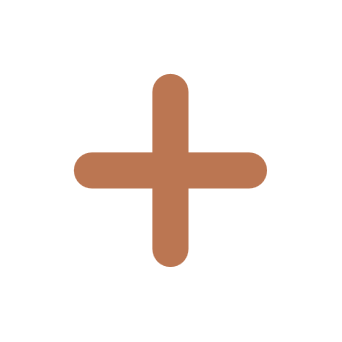
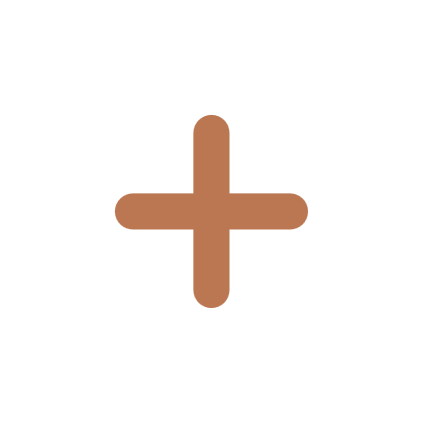
增加关卡，更改目标png大小

Changed region(s): [[0.2047, 0.2047, 0.7895, 0.7895]]

diff --git a/src/common/js/level.js b/src/common/js/level.js
@@ -1,0 +1,54 @@
+export function level() {
+    // 0 默认黑色背景
+    // 1 墙
+    // 2 地板
+    // 3 箱子
+    // 4 终点
+    // 5 人
+    return {
+        level1: [
+            [0, 0, 0, 1, 1, 1, 0, 0, 0, 0],
+            [0, 0, 0, 1, 4, 1, 0, 0, 0, 0],
+            [0, 0, 0, 1, 2, 1, 1, 1, 1, 0],
+            [0, 1, 1, 1, 3, 2, 3, 4, 1, 0],
+            [0, 1, 4, 2, 3, 5, 1, 1, 1, 0],
+            [0, 1, 1, 1, 1, 3, 1, 0, 0, 0],
+            [0, 0, 0, 0, 1, 4, 1, 0, 0, 0],
+            [0, 0, 0, 0, 1, 1, 1, 0, 0, 0],
+            [0, 0, 0, 0, 0, 0, 0, 0, 0, 0]
+        ],
+        level2: [
+            [1, 1, 1, 1, 1, 1, 1, 0, 0, 0],
+            [1, 2, 2, 2, 1, 0, 0, 0, 0, 0],
+            [1, 2, 3, 2, 1, 0, 1, 1, 1, 0],
+            [1, 2, 3, 5, 1, 0, 1, 4, 1, 0],
+            [1, 1, 1, 3, 1, 1, 1, 4, 1, 0],
+            [0, 1, 1, 2, 2, 2, 2, 4, 1, 0],
+            [0, 1, 2, 2, 2, 1, 2, 2, 1, 0],
+            [0, 1, 2, 2, 2, 1, 1, 1, 1, 0],
+            [0, 1, 1, 1, 1, 1, 0, 0, 0, 0]
+        ],
+        level3: [
+            [0, 1, 1, 1, 1, 1, 1, 1, 1, 1, 0],
+            [0, 1, 2, 2, 1, 1, 2, 2, 2, 1, 0],
+            [0, 1, 2, 2, 2, 3, 2, 2, 2, 1, 0],
+            [0, 1, 3, 2, 1, 1, 1, 2, 3, 1, 0],
+            [0, 1, 2, 1, 4, 4, 4, 1, 2, 1, 0],
+            [1, 1, 2, 1, 4, 4, 4, 1, 2, 1, 1],
+            [1, 2, 3, 2, 2, 3, 2, 2, 3, 2, 1],
+            [1, 2, 2, 2, 2, 2, 1, 2, 2, 5, 1],
+            [1, 1, 1, 1, 1, 1, 1, 1, 1, 1, 1]
+        ],
+        level4: [
+            [0, 0, 1, 1, 1, 1, 1, 0, 0, 0],
+            [0, 1, 1, 2, 2, 2, 1, 1, 0, 0],
+            [0, 1, 2, 2, 3, 4, 4, 1, 1, 0],
+            [1, 1, 3, 2, 1, 4, 3, 4, 1, 0],
+            [1, 2, 2, 2, 1, 4, 4, 4, 1, 0],
+            [1, 2, 3, 1, 1, 1, 3, 2, 1, 0],
+            [1, 2, 2, 3, 2, 3, 2, 1, 1, 0],
+            [1, 1, 5, 2, 2, 2, 2, 1, 0, 0],
+            [0, 1, 1, 1, 1, 1, 1, 1, 0, 0]
+        ]
+    };
+}

diff --git a/src/common/js/init.js b/src/common/js/init.js
@@ -1,24 +1,9 @@
 import { Scence } from './scence.js';
-
+import { level } from './level.js';
 export function init() {
     let container = document.querySelector('.wrap');
-    // arr 参数
-    // 0 默认黑色背景
-    // 1 墙
-    // 2 地板
-    // 3 箱子
-    // 4 终点
-    let arr = [
-        [0, 0, 1, 1, 1, 1, 1, 0, 0, 0],
-        [0, 1, 1, 2, 2, 2, 1, 1, 0, 0],
-        [0, 1, 2, 2, 3, 4, 4, 1, 1, 0],
-        [1, 1, 3, 2, 1, 4, 3, 4, 1, 0],
-        [1, 2, 2, 2, 1, 4, 4, 4, 1, 0],
-        [1, 2, 3, 1, 1, 1, 3, 2, 1, 0],
-        [1, 2, 2, 3, 2, 3, 2, 1, 1, 0],
-        [1, 1, 5, 2, 2, 2, 2, 1, 0, 0],
-        [0, 1, 1, 1, 1, 1, 1, 1, 0, 0]
-    ];
+
+    let arr = level().level1;
     window.onload = function() {
         /* eslint-disable no-new */
         new Scence(container, arr, {
